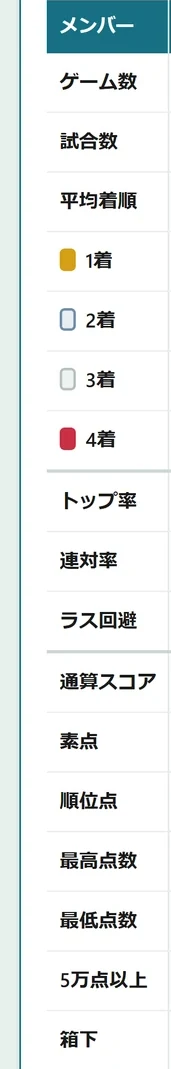
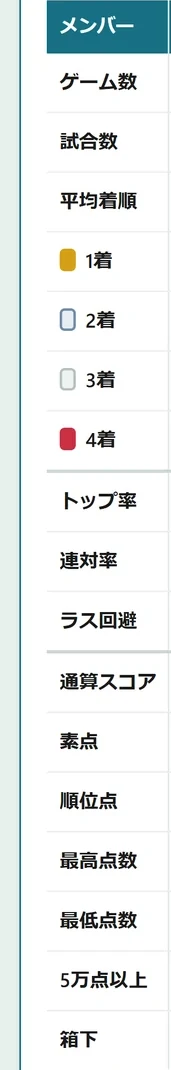
LPの成績表・総当たり表を「自分の成績」と同じカードだけの見た目に
期間の行・タブは入れず、カード単体を撮るように変更。周りの地の色が目立って
他のスライドと見た目がそろっていなかったのを、自分の成績カードと統一。

diff --git a/index.html b/index.html
@@ -2806,9 +2806,9 @@ height="0" width="0" style="display:none;visibility:hidden"></iframe></noscript>
     <polyline points="6.0,55.0 34.0,61.0 62.0,62.8 90.0,65.8 118.0,64.9 146.0,62.5 174.0,62.6 202.0,53.9 230.0,56.1 258.0,59.8 286.0,55.7 314.0,61.1 342.0,57.9 370.0,62.7 398.0,46.6 426.0,44.6 454.0,49.8 482.0,47.6 510.0,48.9 538.0,43.8 566.0,39.3 594.0,36.3 622.0,38.9 650.0,45.6 678.0,49.4 706.0,47.8 734.0,48.0 762.0,43.4 790.0,46.4 818.0,55.1 846.0,55.8 874.0,56.5 902.0,50.9 930.0,43.2" fill="none" stroke="#1A237E" stroke-width="2.2" stroke-linejoin="round" stroke-linecap="round"></polyline><text x="3.0" y="10" class="yr-t">2022年</text><line x1="48.0" x2="48.0" y1="2" y2="76" class="yr-l"></line><text x="51.0" y="10" class="yr-t">2023年</text><line x1="244.0" x2="244.0" y1="2" y2="76" class="yr-l"></line><text x="247.0" y="10" class="yr-t">2024年</text><line x1="496.0" x2="496.0" y1="2" y2="76" class="yr-l"></line><text x="499.0" y="10" class="yr-t">2025年</text><line x1="720.0" x2="720.0" y1="2" y2="76" class="yr-l"></line><text x="723.0" y="10" class="yr-t">2026年</text><circle cx="34.0" cy="61.0" r="3.6" class="dot dn"></circle><circle cx="62.0" cy="62.8" r="3.6" class="dot dn"></circle><circle cx="90.0" cy="65.8" r="3.6" class="dot dn"></circle><circle cx="118.0" cy="64.9" r="3.6" class="dot dp"></circle><circle cx="146.0" cy="62.5" r="3.6" class="dot dp"></circle><circle cx="174.0" cy="62.6" r="3.6" class="dot dn"></circle><circle cx="202.0" cy="53.9" r="3.6" class="dot dp"></circle><circle cx="230.0" cy="56.1" r="3.6" class="dot dn"></circle><circle cx="258.0" cy="59.8" r="3.6" class="dot dn"></circle><circle cx="286.0" cy="55.7" r="3.6" class="dot dp"></circle><circle cx="314.0" cy="61.1" r="3.6" class="dot dn"></circle><circle cx="342.0" cy="57.9" r="3.6" class="dot dp"></circle><circle cx="370.0" cy="62.7" r="3.6" class="dot dn"></circle><circle cx="398.0" cy="46.6" r="3.6" class="dot dp"></circle><circle cx="426.0" cy="44.6" r="3.6" class="dot dp"></circle><circle cx="454.0" cy="49.8" r="3.6" class="dot dn"></circle><circle cx="482.0" cy="47.6" r="3.6" class="dot dp"></circle><circle cx="510.0" cy="48.9" r="3.6" class="dot dn"></circle><circle cx="538.0" cy="43.8" r="3.6" class="dot dp"></circle><circle cx="566.0" cy="39.3" r="3.6" class="dot dp"></circle><circle cx="594.0" cy="36.3" r="3.6" class="dot dp"></circle><circle cx="622.0" cy="38.9" r="3.6" class="dot dn"></circle><circle cx="650.0" cy="45.6" r="3.6" class="dot dn"></circle><circle cx="678.0" cy="49.4" r="3.6" class="dot dn"></circle><circle cx="706.0" cy="47.8" r="3.6" class="dot dp"></circle><circle cx="734.0" cy="48.0" r="3.6" class="dot dn"></circle><circle cx="762.0" cy="43.4" r="3.6" class="dot dp"></circle><circle cx="790.0" cy="46.4" r="3.6" class="dot dn"></circle><circle cx="818.0" cy="55.1" r="3.6" class="dot dn"></circle><circle cx="846.0" cy="55.8" r="3.6" class="dot dn"></circle><circle cx="874.0" cy="56.5" r="3.6" class="dot dn"></circle><circle cx="902.0" cy="50.9" r="3.6" class="dot dp"></circle><circle cx="930.0" cy="43.2" r="3.6" class="dot dp"></circle><text x="34.0" y="92" text-anchor="middle" class="dt">12月</text><text x="62.0" y="92" text-anchor="middle" class="dt">2月</text><text x="90.0" y="92" text-anchor="middle" class="dt">6月</text><text x="118.0" y="92" text-anchor="middle" class="dt">7月</text><text x="146.0" y="92" text-anchor="middle" class="dt">8月</text><text x="174.0" y="92" text-anchor="middle" class="dt">9月</text><text x="202.0" y="92" text-anchor="middle" class="dt">11月</text><text x="230.0" y="92" text-anchor="middle" class="dt">12月</text><text x="258.0" y="92" text-anchor="middle" class="dt">2月</text><text x="286.0" y="92" text-anchor="middle" class="dt">3月</text><text x="314.0" y="92" text-anchor="middle" class="dt">4月</text><text x="342.0" y="92" text-anchor="middle" class="dt">6月</text><text x="370.0" y="92" text-anchor="middle" class="dt">7月</text><text x="398.0" y="92" text-anchor="middle" class="dt">8月</text><text x="426.0" y="92" text-anchor="middle" class="dt">9月</text><text x="454.0" y="92" text-anchor="middle" class="dt">10月</text><text x="482.0" y="92" text-anchor="middle" class="dt">12月</text><text x="510.0" y="92" text-anchor="middle" class="dt">2月</text><text x="538.0" y="92" text-anchor="middle" class="dt">3月</text><text x="566.0" y="92" text-anchor="middle" class="dt">5月</text><text x="594.0" y="92" text-anchor="middle" class="dt">6月</text><text x="622.0" y="92" text-anchor="middle" class="dt">9月</text><text x="650.0" y="92" text-anchor="middle" class="dt">10月</text><text x="678.0" y="92" text-anchor="middle" class="dt">11月</text><text x="706.0" y="92" text-anchor="middle" class="dt">12月</text><text x="734.0" y="92" text-anchor="middle" class="dt">2月</text><text x="762.0" y="92" text-anchor="middle" class="dt">3月</text><text x="790.0" y="92" text-anchor="middle" class="dt">4月</text><text x="818.0" y="92" text-anchor="middle" class="dt">5月</text><text x="846.0" y="92" text-anchor="middle" class="dt">6月</text><text x="874.0" y="92" text-anchor="middle" class="dt">8月</text><text x="902.0" y="92" text-anchor="middle" class="dt">9月</text><text x="930.0" y="92" text-anchor="middle" class="dt">10月</text><rect class="sp-hit" x="20.0" y="0" width="28" height="98"></rect><rect class="sp-hit" x="48.0" y="0" width="28" height="98"></rect><rect class="sp-hit" x="76.0" y="0" width="28" height="98"></rect><rect class="sp-hit" x="104.0" y="0" width="28" height="98"></rect><rect class="sp-hit" x="132.0" y="0" width="28" height="98"></rect><rect class="sp-hit" x="160.0" y="0" width="28" height="98"></rect><rect class="sp-hit" x="188.0" y="0" width="28" height="98"></rect><rect class="sp-hit" x="216.0" y="0" width="28" height="98"></rect><rect class="sp-hit" x="244.0" y="0" width="28" height="98"></rect><rect class="sp-hit" x="272.0" y="0" width="28" height="98"></rect><rect class="sp-hit" x="300.0" y="0" width="28" height="98"></rect><rect class="sp-hit" x="328.0" y="0" width="28" height="98"></rect><rect class="sp-hit" x="356.0" y="0" width="28" height="98"></rect><rect class="sp-hit" x="384.0" y="0" width="28" height="98"></rect><rect class="sp-hit" x="412.0" y="0" width="28" height="98"></rect><rect class="sp-hit" x="440.0" y="0" width="28" height="98"></rect><rect class="sp-hit" x="468.0" y="0" width="28" height="98"></rect><rect class="sp-hit" x="496.0" y="0" width="28" height="98"></rect><rect class="sp-hit" x="524.0" y="0" width="28" height="98"></rect><rect class="sp-hit" x="552.0" y="0" width="28" height="98"></rect><rect class="sp-hit" x="580.0" y="0" width="28" height="98"></rect><rect class="sp-hit" x="608.0" y="0" width="28" height="98"></rect><rect class="sp-hit" x="636.0" y="0" width="28" height="98"></rect><rect class="sp-hit" x="664.0" y="0" width="28" height="98"></rect><rect class="sp-hit" x="692.0" y="0" width="28" height="98"></rect><rect class="sp-hit" x="720.0" y="0" width="28" height="98"></rect><rect class="sp-hit" x="748.0" y="0" width="28" height="98"></rect><rect class="sp-hit" x="776.0" y="0" width="28" height="98"></rect><rect class="sp-hit" x="804.0" y="0" width="28" height="98"></rect><rect class="sp-hit" x="832.0" y="0" width="28" height="98"></rect><rect class="sp-hit" x="860.0" y="0" width="28" height="98"></rect><rect class="sp-hit" x="888.0" y="0" width="28" height="98"></rect><rect class="sp-hit" x="916.0" y="0" width="28" height="98"></rect></svg></span></span>
     </span>
     </div></div></div></figure>
-        <figure class="lp-show"><figcaption><b>全員の成績を、1枚の表で</b><span>25人分でも1枚に。試合数・着順の回数・トップ率・通算スコアまで、メンバーを横に並べて。</span><a href="/news/nakama-page.html">くわしく見る ›</a></figcaption><button type="button" class="lp-shot lp-pan" onclick="lpZoom(this)" aria-label="全員の成績を、1枚の表でを大きく見る"><img src="/assets/screens/lp-hd-grid.webp" width="3000" height="1550" alt="仲間ページの成績表。25人分のゲーム数・試合数・平均着順・着順の回数・トップ率・通算スコア" loading="lazy" decoding="async"><img class="lp-col" src="/assets/screens/lp-hd-grid-c.webp" width="171" height="1069" alt="" style="--ct:0.2497;--ch:0.6897" loading="lazy" decoding="async"><span class="lp-look">押すと全体を見る</span></button></figure>
+        <figure class="lp-show"><figcaption><b>全員の成績を、1枚の表で</b><span>25人分でも1枚に。試合数・着順の回数・トップ率・通算スコアまで、メンバーを横に並べて。</span><a href="/news/nakama-page.html">くわしく見る ›</a></figcaption><button type="button" class="lp-shot lp-pan" onclick="lpZoom(this)" aria-label="全員の成績を、1枚の表でを大きく見る"><img src="/assets/screens/lp-hd-grid.webp" width="3000" height="1382" alt="仲間ページの成績表。25人分のゲーム数・試合数・平均着順・着順の回数・トップ率・通算スコア" loading="lazy" decoding="async"><img class="lp-col" src="/assets/screens/lp-hd-grid-c.webp" width="171" height="1070" alt="" style="--ct:0.1585;--ch:0.7742" loading="lazy" decoding="async"><span class="lp-look">押すと全体を見る</span></button></figure>
         <figure class="lp-show"><figcaption><b>仲間の順位が、表彰台で</b><span>通算スコアも平均着順もトップ率も。タブを押すだけで順位が入れかわります。</span><a href="/news/nakama-page.html">くわしく見る ›</a></figcaption><div class="lp-shot lp-flip" id="lp-flip" style="--rt:0.4581"><div class="rk on"><img class="rk-t" src="/assets/screens/lp-hd-rank-score-t.webp" width="1146" height="525" alt="" loading="lazy" decoding="async"><img class="rk-b" src="/assets/screens/lp-hd-rank-score.webp" width="1146" height="3931" alt="通算スコアの順の通算順位" loading="lazy" decoding="async"></div><div class="rk"><img class="rk-t" src="/assets/screens/lp-hd-rank-avg-t.webp" width="1146" height="525" alt="" loading="lazy" decoding="async"><img class="rk-b" src="/assets/screens/lp-hd-rank-avg.webp" width="1146" height="3931" alt="平均着順の順の通算順位" loading="lazy" decoding="async"></div><div class="rk"><img class="rk-t" src="/assets/screens/lp-hd-rank-top-t.webp" width="1146" height="525" alt="" loading="lazy" decoding="async"><img class="rk-b" src="/assets/screens/lp-hd-rank-top.webp" width="1146" height="3931" alt="トップ率の順の通算順位" loading="lazy" decoding="async"></div><div class="rk"><img class="rk-t" src="/assets/screens/lp-hd-rank-las-t.webp" width="1146" height="525" alt="" loading="lazy" decoding="async"><img class="rk-b" src="/assets/screens/lp-hd-rank-las.webp" width="1146" height="3931" alt="ラス回避の順の通算順位" loading="lazy" decoding="async"></div></div></figure>
-        <figure class="lp-show"><figcaption><b>あの人には勝ち越してる？</b><span>全員の総当たりを、1枚の表に。同じ試合で上だった回数で、相性が数字で出ます。</span><a href="/news/nakama-page.html#h2h">くわしく見る ›</a></figcaption><button type="button" class="lp-shot lp-pan lp-panxy" style="--ihn:1.726" onclick="lpZoom(this)" aria-label="あの人には勝ち越してる？を大きく見る"><img src="/assets/screens/lp-hd-h2h.webp" width="3000" height="2675" alt="総当たり表。25人のメンバー同士の直接対決の勝ち越し・負け越し" loading="lazy" decoding="async"><img class="lp-col" src="/assets/screens/lp-hd-h2h-c.webp" width="185" height="2110" alt="" style="--ct:0.1921;--ch:0.7888" loading="lazy" decoding="async"><span class="lp-look">押すと全体を見る</span></button></figure>
+        <figure class="lp-show"><figcaption><b>あの人には勝ち越してる？</b><span>全員の総当たりを、1枚の表に。同じ試合で上だった回数で、相性が数字で出ます。</span><a href="/news/nakama-page.html#h2h">くわしく見る ›</a></figcaption><button type="button" class="lp-shot lp-pan lp-panxy" style="--ihn:1.804" onclick="lpZoom(this)" aria-label="あの人には勝ち越してる？を大きく見る"><img src="/assets/screens/lp-hd-h2h.webp" width="3000" height="2493" alt="総当たり表。25人のメンバー同士の直接対決の勝ち越し・負け越し" loading="lazy" decoding="async"><img class="lp-col" src="/assets/screens/lp-hd-h2h-c.webp" width="185" height="2110" alt="" style="--ct:0.1332;--ch:0.8464" loading="lazy" decoding="async"><span class="lp-look">押すと全体を見る</span></button></figure>
         <figure class="lp-show"><figcaption><b>その日の順位とスコアが、ずらり</b><span>打った日ごとに、自分の順位とスコアが並びます。押せばその日の結果が開きます。</span><a href="/news/mypage-stats.html">くわしく見る ›</a></figcaption><button type="button" class="lp-shot lp-pany" onclick="lpZoom(this)" aria-label="その日の順位とスコアが、ずらりを大きく見る"><img src="/assets/screens/lp-hd-games.webp" width="1146" height="6789" alt="マイページの過去の試合の一覧。ゲームごとに自分の順位とスコア、相手が並ぶ" loading="lazy" decoding="async"></button></figure>
       </div>
       <div class="features-ctl"><button type="button" class="features-nav prev" id="shows-prev" onclick="snapScroll('shows',-1)" aria-label="前の画面へ"><svg viewBox="0 0 14 14" aria-hidden="true"><path d="M9 2 L4 7 L9 12" fill="none" stroke="currentColor" stroke-width="2.2" stroke-linecap="round" stroke-linejoin="round"/></svg></button><div class="features-dots" id="shows-dots" aria-hidden="true"></div><button type="button" class="features-nav next" id="shows-next" onclick="snapScroll('shows',1)" aria-label="次の画面へ"><svg viewBox="0 0 14 14" aria-hidden="true"><path d="M5 2 L10 7 L5 12" fill="none" stroke="currentColor" stroke-width="2.2" stroke-linecap="round" stroke-linejoin="round"/></svg></button></div>

diff --git a/tools/shoot_lp_big_plan.py b/tools/shoot_lp_big_plan.py
@@ -30,8 +30,9 @@ def tshot(sel, name):
     eshot("#hd-box", name, maxw=3000)
     pg.evaluate("document.getElementById('hd-box').remove()")
 
-# 2026-11-04〜: 周りごと撮る。カードの縁でぴったり切らない（角の外に別の色が残る・枠が欠けるのを防ぐ）。
-# 画面の地の色を少し残し、期間の行やタブも入れる。横に長い表はカードの枠ごと全部広げて撮る
+# 2026-11-04〜: カードの縁でぴったり切らない（角の外に別の色が残る・枠が欠けるのを防ぐ）。
+# 画面の地の色を少し残す。成績表・総当たり表は「自分の成績」のカードと同じ見え方にそろえるため、
+# 期間の行・タブは入れずカードだけを撮る（横に長い表はカードの枠ごと全部広げて撮る）
 APP_PAD = 12
 LP_META = {}  # 撮った画像の大きさ。最後に index.html の数字を書きかえる（tools/lp_hd_meta.py）
 def wshot(js_parts, name, maxw=3000, col=False):
@@ -93,9 +94,9 @@ for mk in ("score", "avg", "top", "las"):
     LP_META["rank"] = {"rt": round(y / im.width, 4), "w": im.width, "th": y, "bh": im.height - y}
 pg.evaluate("circleMetric = 'score'; renderCircle()"); pg.wait_for_timeout(300)
 pg.evaluate("circleTab = 'grid'; renderCircle()"); pg.wait_for_timeout(900)
-wshot("[...document.querySelectorAll('#circle-body > .low-filt, #circle-body > .tabbar, #circle-body > .card')]", "grid", col=True)
+wshot("[...document.querySelectorAll('#circle-body > .card')]", "grid", col=True)
 pg.evaluate("circleTab = 'h2h'; renderCircle()"); pg.wait_for_timeout(900)
-wshot("[...document.querySelectorAll('#circle-body > .low-filt, #circle-body > .tabbar, #circle-body > .card')]", "h2h", col=True)
+wshot("[...document.querySelectorAll('#circle-body > .card')]", "h2h", col=True)
 pg.evaluate("circleTab = 'rank'; renderCircle()"); pg.wait_for_timeout(500)
 pg.evaluate("(async () => { await syncCircleGamesToMine(); })()"); pg.wait_for_timeout(1500)
 pg.evaluate("showView('history'); setMpPeriod('all'); mpMode = 4; setMpPane('sum'); sparkUnit = 'm'; renderHistory()"); pg.wait_for_timeout(1200)
